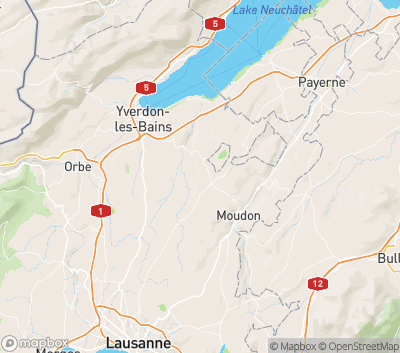
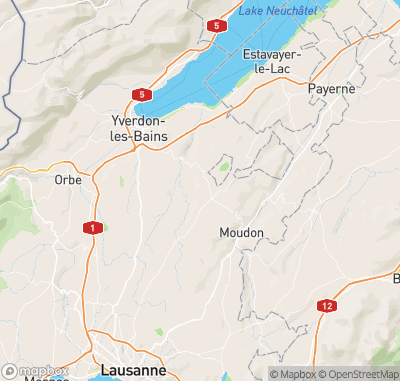
change map projection with Mercator formula (images finally fit perfectly)

diff --git a/osmparser/src/main/java/heig/osmparser/controllers/MainController.java b/osmparser/src/main/java/heig/osmparser/controllers/MainController.java
@@ -319,11 +319,9 @@ public class MainController implements Initializable {
         //default metric for MN03 is centimeter
         double[] bounds = g.getBounds();
         // upper left corner coordinates
-        double[] shape1 = new double[]{Maths.haversine(bounds[1], 0.0, bounds[1], bounds[0]),
-                                       Maths.haversine(0.0, bounds[0], bounds[1], bounds[0])};
+        double[] shape1 = Maths.mapProjection(bounds[1], bounds[0]);
         // bottom right corner coordinates
-        double[] shape2 = new double[]{Maths.haversine(bounds[3], 0.0, bounds[3], bounds[2]),
-                                       Maths.haversine(0.0, bounds[2], bounds[3], bounds[2])};
+        double[] shape2 = Maths.mapProjection(bounds[3], bounds[2]);
 
         // multiplied by -1 because y-axis is in reverse side (downside)
         double[] mapShape = {shape2[0] - shape1[0], -1 * (shape2[1] - shape1[1])};
@@ -370,20 +368,18 @@ public class MainController implements Initializable {
         for(Long i : g.getAdjList().keySet()) {
             Node n1 = g.getNodes().get(i);
             if(n1 != null) {
-                nodeShape = new double[]{Maths.haversine(n1.getLat(), 0.0, n1.getLat(), n1.getLon()),
-                                         Maths.haversine(0.0, n1.getLon(), n1.getLat(), n1.getLon())};
-                double startX = (nodeShape[0] - shape1[0]) * factorX / (double) mapShape[0];
-                double startY = -1 * (nodeShape[1] - shape1[1]) * factorY / (double) mapShape[1];
+                nodeShape = Maths.mapProjection(n1.getLat(), n1.getLon());
+                double startX = (nodeShape[0] - shape1[0]) * factorX / mapShape[0];
+                double startY = -1 * (nodeShape[1] - shape1[1]) * factorY / mapShape[1];
 
                 for (Way w : (g.getAdjList().get(i))) {
                     Node n2 = g.getNodes().get(w.getToId());
                     String roadType = w.getRoadType();
 
                     if (n2 != null) {
-                        nodeShape = new double[]{Maths.haversine(n1.getLat(), 0.0, n2.getLat(), n2.getLon()),
-                                                 Maths.haversine(0.0, n2.getLon(), n2.getLat(), n2.getLon())};
-                        double endX = (nodeShape[0] - shape1[0]) * factorX / (double) mapShape[0];
-                        double endY = -1 * (nodeShape[1] - shape1[1]) * factorY / (double) mapShape[1];
+                        nodeShape = Maths.mapProjection(n2.getLat(), n2.getLon());
+                        double endX = (nodeShape[0] - shape1[0]) * factorX / mapShape[0];
+                        double endY = -1 * (nodeShape[1] - shape1[1]) * factorY / mapShape[1];
 
                         Line line = new Line(startX, startY, endX, endY);
                         line.setStroke(Config.roadTypeColor.get(roadType));

diff --git a/osmparser/src/main/java/heig/osmparser/utils/maths/Maths.java b/osmparser/src/main/java/heig/osmparser/utils/maths/Maths.java
@@ -7,7 +7,8 @@ import java.math.RoundingMode;
 
 public abstract class Maths {
 
-    public final static double R = 6371.0;
+    // earth radius used in OSM
+    public final static double R =  6378.137;
 
     public static double toRad(double deg) {
         return Math.PI / 180d * deg;
@@ -32,6 +33,14 @@ public abstract class Maths {
     }
 
     /*
+     * transform (lat, lon) for Mercator projection
+     * returns (x, y)
+     */
+    public static double[] mapProjection(double lat, double lon) {
+        return new double[]{toRad(lon) * R, Math.log(Math.tan(Math.PI / 4 + toRad(lat) / 2)) * R};
+    }
+
+    /*
      * returns distance in kilometers
      */
     public static double haversine(double lat1, double lon1, double lat2, double lon2) {
@@ -44,6 +53,7 @@ public abstract class Maths {
         return R * c;
     }
 
+    // TODO : use haversine instead of MN03
     public static double distanceNodes(Node n1, Node n2) {
         int[] shape1 = Maths.latsToMN03(n1.getLat(), n1.getLon());
         int[] shape2 = Maths.latsToMN03(n2.getLat(), n2.getLon());
